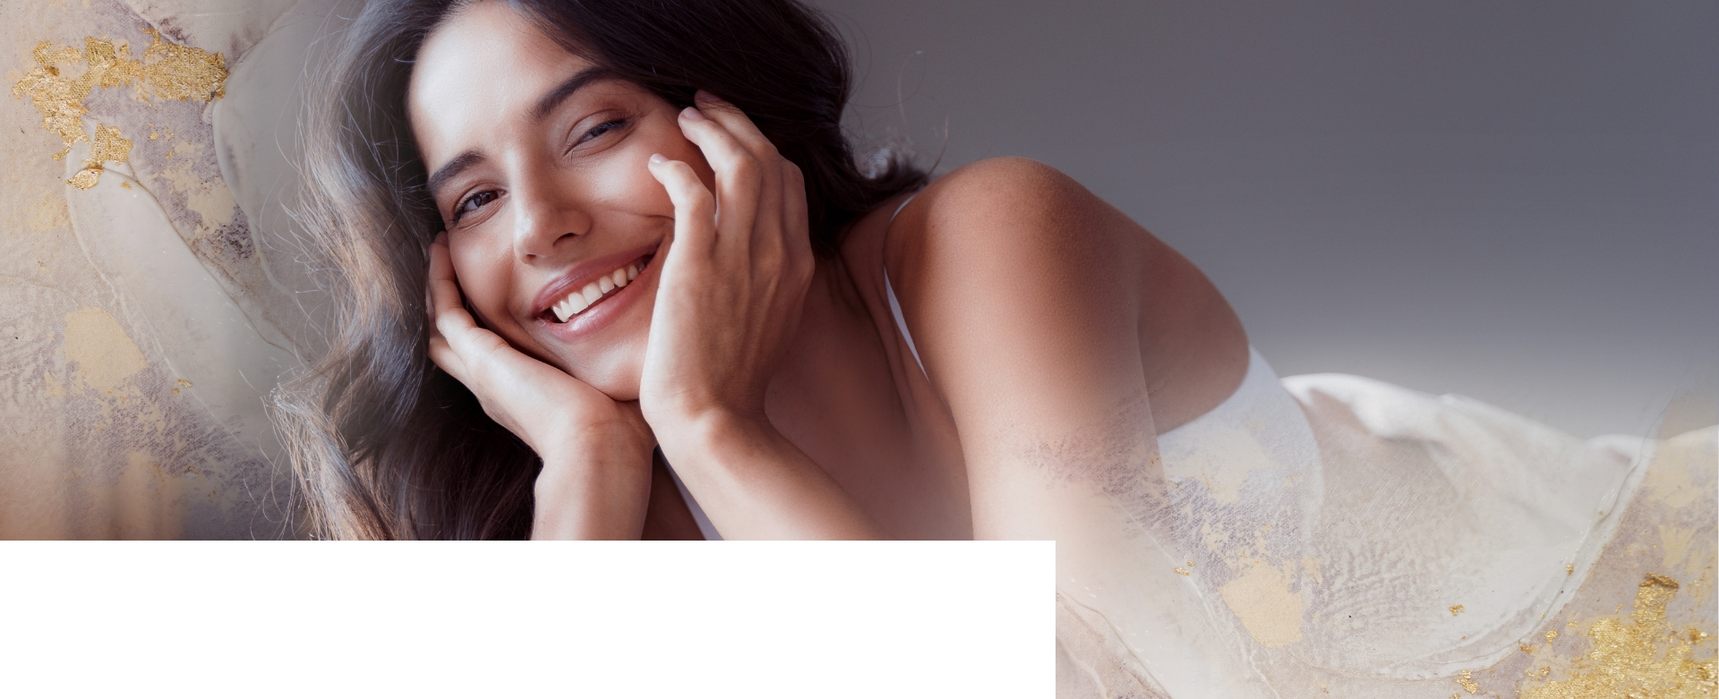
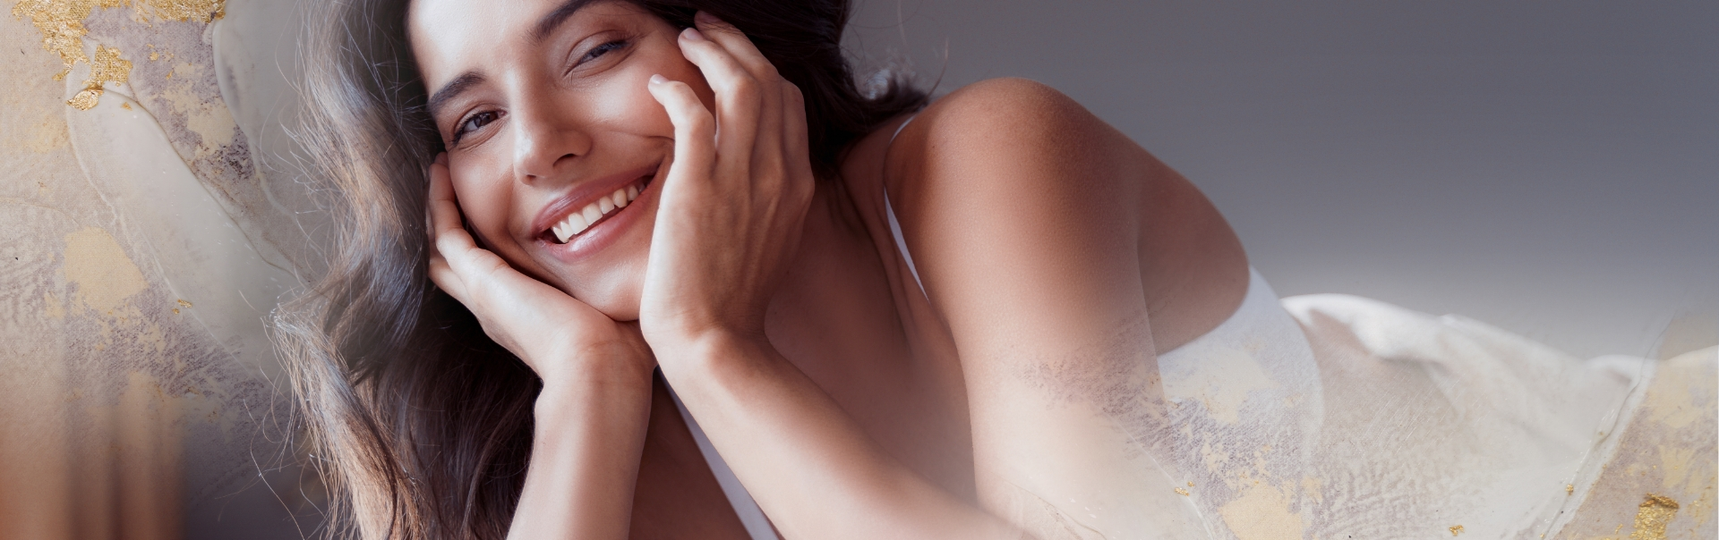
Common ::: gallery section ::  - added full responsive;

diff --git a/dest/css/app.min.css b/dest/css/app.min.css
@@ -1,1 +1,1 @@
-.c-grid,.c-grid-fluid{width:100%;margin-right:auto;margin-left:auto}.doctor__bg img,.gallery__bg-cover{position:absolute;top:0;left:0;width:100%;height:100%;-o-object-fit:cover;object-fit:cover;-o-object-position:center;object-position:center}.c-title{font-family:playfair-display,serif}@font-face{font-family:iconFont;src:url(../fonts/iconFont.eot);src:url(../fonts/iconFont.eot?#iefix) format("eot"),url(../fonts/iconFont.woff2) format("woff2"),url(../fonts/iconFont.woff) format("woff"),url(../fonts/iconFont.ttf) format("truetype"),url(../fonts/iconFont.svg#iconFont) format("svg")}.icon-arrow-left:before,.icon-arrow-right:before,.icon-star-fill:before{font-family:iconFont,sans-serif;-webkit-font-smoothing:antialiased;-moz-osx-font-smoothing:grayscale;font-style:normal;font-variant:normal;font-weight:400;text-decoration:none;text-transform:none}.icon-arrow-left:before{content:"\e001"}.icon-arrow-right:before{content:"\e002"}.icon-star-fill:before{content:"\e003"}body,html{width:100%;min-height:100vh}body.is-hideScroll,html.is-hideScroll{overflow:hidden!important;width:100%}html{-ms-overflow-style:scrollbar;-webkit-tap-highlight-color:rgba(0,0,0,0)}body{overflow-x:hidden;position:relative;flex-direction:column;margin:0;padding:0;background-color:#fff;line-height:1.42857143;font-size:14px;font-weight:400;letter-spacing:.02em;font-family:proxima-nova,muli,sans-serif;-webkit-font-smoothing:antialiased;-moz-osx-font-smoothing:grayscale}body,body>.main{display:-ms-flexbox;display:flex;-ms-flex-direction:column}body>.main{flex-direction:column;-ms-flex-pack:center;justify-content:center;-ms-flex:1 0 auto;flex:1 0 auto}body>.main--start{-ms-flex-pack:start;justify-content:flex-start}*,:after,:before{box-sizing:border-box}button,input,optgroup,select,textarea{font-size:100%;margin:0}button,input{overflow:visible}button[disabled]{opacity:.55;cursor:not-allowed}[type=search]{-webkit-appearance:textfield;outline-offset:-2px}[type=search]::-webkit-search-cancel-button,[type=search]::-webkit-search-decoration{-webkit-appearance:none}textarea{overflow:auto}h1,h2,h3,h4,h5,h6,hr,p,ul{margin:0;padding:0}ul li{list-style:none}a{outline:none}a,a:focus,a:hover{text-decoration:none}input[type=text]{-webkit-appearance:none;appearance:none}picture{display:-ms-flexbox;display:flex;top:0;left:0;width:100%;height:100%}.c-grid{max-width:1640px}.c-grid,.c-grid-fluid{padding-right:20px;padding-left:20px}.c-grid-fluid{max-width:100%}.copyright{display:-ms-flexbox;display:flex;-ms-flex-pack:center;justify-content:center;padding-bottom:15px}.copyright__text{font-weight:300;font-size:14px;text-align:center;color:#000}.copyright__text strong{font-weight:700}.made{display:-ms-flexbox;display:flex;-ms-flex-pack:center;justify-content:center;padding-bottom:15px}.made__text{font-weight:300;font-size:14px;text-align:center;color:#000}.made__text a{font-weight:700;color:#000;position:relative}.made__text a:hover:after,.made__text a:hover:before{width:50%;transition:width .3s ease-in-out}.made__text a:after,.made__text a:before{content:"";position:absolute;top:100%;width:0;height:1px;background-color:#000;transition:width .3s ease-in-out}.made__text a:before{left:50%}.made__text a:after{right:50%}.icon-font{line-height:1}.icon-font,.logo{display:-ms-flexbox;display:flex}.logo{-ms-flex-align:center;align-items:center}.logo__btn{display:-ms-flexbox;display:flex;-ms-flex-align:start;align-items:flex-start}.logo__btn img{display:block;max-width:100%;height:auto;max-height:100%;margin-left:auto;margin-right:auto}.c-title{font-weight:400;font-size:60px;line-height:1;text-align:center;color:#000}@media screen and (max-width:1535px){.c-title{font-size:50px}}@media screen and (max-width:767px){.c-title{font-size:35px}}.c-title.c-title--big{font-size:140px}@media screen and (max-width:1535px){.c-title.c-title--big{font-size:120px}}@media screen and (max-width:1365px){.c-title.c-title--big{font-size:100px}}@media screen and (max-width:1279px){.c-title.c-title--big{font-size:50px}}@media screen and (max-width:767px){.c-title.c-title--big{font-size:35px}}.c-title.c-title--small{font-size:40px}@media screen and (max-width:767px){.c-title.c-title--small{font-size:35px}}.c-title.c-title--white{color:#fff}.c-label{padding-bottom:10px;font-weight:900;font-size:14px;letter-spacing:.1em;text-align:center;color:#d015a5;text-transform:uppercase}@media screen and (max-width:1023px){.c-label{font-size:12px}}.c-desc{font-weight:300;font-size:16px;line-height:38px;text-align:center;color:#000}@media screen and (max-width:1365px){.c-desc{font-size:14px}}.c-btn{outline:none;cursor:pointer;position:relative;display:-ms-flexbox;display:flex;-ms-flex-align:center;align-items:center;-ms-flex-pack:center;justify-content:center;width:100%;max-width:300px;height:60px;padding-left:20px;padding-right:20px;border:2px solid #d015a5;background-color:#d015a5;text-transform:uppercase;font-weight:700;font-size:18px;text-align:center;color:#fff;transition:background-color .3s ease-in-out,color .3s ease-in-out}@media screen and (max-width:767px){.c-btn{height:50px;padding-left:15px;padding-right:15px;font-size:16px}}.c-btn:hover{background-color:transparent;color:#d015a5;transition:background-color .3s ease-in-out,color .3s ease-in-out}.c-btn:hover:after{opacity:.5;-ms-transform:translate(0);transform:translate(0)}.c-btn:after,.c-btn:hover:after{transition:opacity .3s ease-in-out,transform .3s ease-in-out}.c-btn:after{content:"";z-index:-1;position:absolute;top:0;left:0;-ms-transform:translate(-10px,10px);transform:translate(-10px,10px);width:100%;height:100%;background-color:#fff}.c-btn__wrapper{display:-ms-flexbox;display:flex;-ms-flex-align:center;align-items:center;width:100%}@media screen and (max-width:767px){.c-btn__wrapper{-ms-flex-pack:center;justify-content:center}}.c-btn__wrapper--center{-ms-flex-pack:center;justify-content:center}.footer__container{position:relative}.footer__container-1{background-image:url(../img/img-footer-bg.jpg);background-position:50%;background-repeat:no-repeat;background-size:cover}.footer__container-1:after{content:"";position:absolute;top:0;left:0;width:100%;height:100%;background-color:hsla(42,36%,91%,.15)}.footer__wrapper{z-index:2;position:relative}.footer__wrapper-1{display:-ms-flexbox;display:flex;-ms-flex-align:center;align-items:center;padding-top:95px;padding-bottom:155px}@media screen and (max-width:1439px){.footer__wrapper-1{padding-top:55px;padding-bottom:95px}}@media screen and (max-width:767px){.footer__wrapper-1{-ms-flex-wrap:wrap;flex-wrap:wrap;padding-bottom:55px}}.footer__wrapper-2{padding-top:55px;padding-bottom:95px}@media screen and (max-width:767px){.footer__wrapper-2{padding-bottom:55px}}.footer__wrapper-left,.footer__wrapper-right{width:100%;max-width:260px}@media screen and (max-width:767px){.footer__wrapper-left,.footer__wrapper-right{max-width:100%;padding-bottom:55px}}.footer__wrapper-middle{display:-ms-flexbox;display:flex;-ms-flex-align:center;align-items:center;-ms-flex-pack:center;justify-content:center;-ms-flex:1;flex:1;min-width:1px;max-width:100%;padding-left:20px;padding-right:20px}@media screen and (max-width:1023px){.footer__wrapper-middle{padding-right:0}}@media screen and (max-width:767px){.footer__wrapper-middle{-ms-flex:100%;flex:100%;padding-left:0}}@media screen and (max-width:1023px){.footer__wrapper-right{display:none}}.footer__nav{display:-ms-flexbox;display:flex;-ms-flex-align:center;align-items:center;-ms-flex-pack:center;justify-content:center}.footer__nav a,.footer__nav span{font-weight:300;font-size:14px;text-align:center;color:#000}.footer__nav a{display:-ms-flexbox;display:flex;-ms-flex-align:center;align-items:center;position:relative}.footer__nav a:hover:after,.footer__nav a:hover:before{width:50%;transition:width .3s ease-in-out}.footer__nav a:after,.footer__nav a:before{content:"";position:absolute;top:100%;width:0;height:1px;background-color:#000;transition:width .3s ease-in-out}.footer__nav a:before{left:50%}.footer__nav a:after{right:50%}.footer__nav span{margin-left:5px;margin-right:5px}.footer__address{display:-ms-flexbox;display:flex;-ms-flex-align:start;align-items:flex-start;-ms-flex-direction:column;flex-direction:column}@media screen and (max-width:767px){.footer__address{-ms-flex-align:center;align-items:center;text-align:center}}.footer__address-country{padding-bottom:50px;font-weight:700;font-size:16px;letter-spacing:.02em;color:#000}@media screen and (max-width:767px){.footer__address-country{padding-bottom:25px}}.footer__address-desc{padding-bottom:25px;font-weight:300}.footer__address-desc,.footer__address-tel{font-size:16px;letter-spacing:.02em;color:#000}.footer__address-tel{font-weight:700;position:relative}.footer__address-tel:hover:after,.footer__address-tel:hover:before{width:50%;transition:width .3s ease-in-out}.footer__address-tel:after,.footer__address-tel:before{content:"";position:absolute;top:100%;width:0;height:1px;background-color:#000;transition:width .3s ease-in-out}.footer__address-tel:before{left:50%}.footer__address-tel:after{right:50%}.doctor{position:relative;padding-top:150px;padding-bottom:150px}@media screen and (max-width:1535px){.doctor{padding-top:125px;padding-bottom:125px}}@media screen and (max-width:1279px){.doctor{padding-top:100px;padding-bottom:100px}}@media screen and (max-width:767px){.doctor{padding-top:50px;padding-bottom:50px}}.doctor__bg{z-index:0;position:absolute;top:0;left:0;width:100%;height:100%}.doctor__bg img{left:100px;-o-object-fit:none;object-fit:none;-o-object-position:left center;object-position:left center}.doctor__wrapper{z-index:2;position:relative;width:100%;max-width:650px;margin-left:auto;margin-right:auto}.doctor__title{padding-bottom:50px}.doctor__title strong{font-weight:700}.doctor__desc{padding-bottom:25px}.doctor__desc:last-of-type{padding-bottom:50px}@media screen and (max-width:767px){.doctor__desc:last-of-type{padding-bottom:25px}}.doctor__link{position:relative;display:-ms-flexbox;display:flex;-ms-flex-align:center;align-items:center;-ms-flex-pack:center;justify-content:center;font-weight:700;font-size:18px;letter-spacing:.02em;line-height:38px;text-align:center;color:#000;text-transform:uppercase}@media screen and (max-width:1365px){.doctor__link{font-size:16px}}@media screen and (max-width:767px){.doctor__link{font-size:14px}}.doctor__link:hover:after{width:100px;transition:width .3s ease-in-out}.doctor__link:after{content:"";position:absolute;top:calc(100% + 20px);left:0;right:0;width:40px;height:3px;background-color:#d010a5;margin-left:auto;margin-right:auto;transition:width .3s ease-in-out}@media screen and (max-width:1279px){.doctor__link:after{top:calc(100% + 10px)}}.meet{position:relative;background-repeat:no-repeat;background-position:50%;background-size:cover}@media screen and (max-width:1279px){.meet{background-position:-300px}}.meet:after{content:"";position:absolute;top:0;left:0;display:none;width:100%;height:100%;background:hsla(0,0%,100%,0);background:linear-gradient(90deg,hsla(0,0%,100%,0),#fff)}@media screen and (max-width:1279px){.meet:after{display:block}}@media screen and (max-width:767px){.meet:after{background-color:hsla(0,0%,100%,.85)}}.meet__wrapper{z-index:2;position:relative;display:-ms-flexbox;display:flex;padding-top:125px;padding-bottom:150px}@media screen and (max-width:1439px){.meet__wrapper{padding-top:100px;padding-bottom:125px}}@media screen and (max-width:767px){.meet__wrapper{padding-bottom:100px}}.meet__wrapper>div{width:100%;max-width:50%;margin-left:auto}@media screen and (max-width:767px){.meet__wrapper>div{max-width:100%}}.meet__desc,.meet__label,.meet__title{text-align:left}@media screen and (max-width:767px){.meet__desc,.meet__label,.meet__title{text-align:center}}.meet__desc,.meet__title{padding-bottom:50px}.meet__desc{max-width:565px}.gallery{position:relative}.gallery__bg{z-index:0;position:absolute;top:0;left:0;width:100%;height:100%}.gallery__bg:after{content:"";position:absolute;left:0;bottom:0;width:64%;height:230px;background-color:#fff}.gallery__bg>div{position:absolute;left:0;bottom:0;width:100%;max-width:64%;height:100%}.gallery__bg>div>div{z-index:2;position:absolute;display:-ms-flexbox;display:flex;left:100px;right:0;bottom:0;width:680px;height:500px}.gallery__bg>div>div img{position:absolute;display:block;width:100%;max-width:calc((100% - 30px) / 2);height:auto;max-height:100%;border:10px solid #fff}.gallery__bg>div>div img:first-of-type{top:0;left:0}.gallery__bg>div>div img:nth-of-type(2){right:0;bottom:0}.gallery__wrapper{z-index:2;position:relative;padding-top:150px;padding-bottom:150px}.gallery__title{display:-ms-flexbox;display:flex;-ms-flex-pack:end;justify-content:flex-end;padding-bottom:330px;text-align:right;text-transform:uppercase}.gallery__title p{position:relative;padding:20px 50px 50px}.gallery__title p:after,.gallery__title p:before{content:"";position:absolute;width:40%;height:3px;background-color:#d010a5}.gallery__title p:before{top:0;right:0}.gallery__title p:after{left:0;bottom:0}.gallery__btn{-ms-flex-pack:end;justify-content:flex-end}.gallery__btn .c-btn{max-width:450px}.service{position:relative}.service .c-grid-fluid{padding-left:0;padding-right:0}.service__bg{z-index:0;position:absolute;top:0;left:0;width:100%;height:calc(90% - 250px);background-image:url(../img/img-pattern.jpg);background-repeat:no-repeat;background-position:50%;background-size:cover}.service__wrapper{z-index:2;position:relative;padding-top:70px}.service__carousel .swiper{padding-top:100px;padding-bottom:100px}.service__carousel .swiper-slide{width:800px!important}.service__box{position:relative;display:-ms-flexbox;display:flex;-ms-flex-align:center;align-items:center;-ms-flex-direction:column;flex-direction:column;width:100%;min-height:100%;padding:150px 115px 90px;box-shadow:5px 3px 25px 0 rgba(0,0,0,.16);background-color:#fff}.service__box-watermark{position:absolute;top:0;left:0;right:0;-ms-transform:translateY(-50%);transform:translateY(-50%);display:block;max-width:140px;height:auto;margin-left:auto;margin-right:auto}.service__box-desc,.service__box-title{padding-bottom:50px}.reviews{position:relative;padding-top:125px;padding-bottom:250px}.reviews__bg{z-index:0;position:absolute;top:125px;left:0;width:85%;height:calc(80% - 125px);background-repeat:no-repeat;background-position:50%;background-size:cover}.reviews__wrapper{z-index:2;position:relative;display:-ms-flexbox;display:flex;-ms-flex-pack:end;justify-content:flex-end;padding-top:110px}.reviews__wrapper>div{width:100%;max-width:55%}.reviews__title{padding-bottom:110px;padding-left:50px;text-transform:uppercase;text-align:left}.reviews__box{position:relative;-ms-flex-direction:column;flex-direction:column;width:100%;max-width:950px;padding:80px 140px 0;box-shadow:5px 3px 25px 0 rgba(0,0,0,.16);background-color:#fff}.reviews__box,.reviews__btn{display:-ms-flexbox;display:flex;-ms-flex-align:center;align-items:center}.reviews__btn{z-index:10;position:absolute;top:50%;-ms-flex-pack:center;justify-content:center;width:83px;height:83px;background-color:#d015a5}.reviews__btn--prev{left:0;-ms-transform:translate(-50%,-50%);transform:translate(-50%,-50%)}.reviews__btn--next{right:0;-ms-transform:translate(50%,-50%);transform:translate(50%,-50%)}.reviews__btn .icon-font{font-size:30px;color:#fff}.reviews__carousel{width:100%}.reviews__rating{display:-ms-flexbox;display:flex;-ms-flex-align:center;align-items:center;-ms-flex-pack:center;justify-content:center;padding-bottom:45px}.reviews__rating .icon-font{margin-left:5px;margin-right:5px;color:#f0b619;font-size:25px}.reviews__desc{padding-bottom:35px;line-height:1.8;color:#999}.reviews__name{font-weight:700;font-size:22px;letter-spacing:.02em;line-height:32px;text-align:center;color:#b2b2b2}.reviews__more{position:relative;-ms-transform:translateY(35%);transform:translateY(35%);display:-ms-flexbox;display:flex;-ms-flex-direction:column;flex-direction:column;-ms-flex-align:center;align-items:center;-ms-flex-pack:center;justify-content:center;width:100%;max-width:554px;min-height:200px;margin-left:auto;margin-right:auto;background-color:#000;background-image:url(../img/img-pattern.jpg);background-repeat:no-repeat;background-position:50%;background-size:cover}.reviews__more p{padding-bottom:20px}.reviews__more span{position:relative;text-transform:uppercase;font-weight:700;font-size:18px;text-align:left;color:#fff}.reviews__more span:after{content:"";position:absolute;top:calc(100% + 20px);left:0;right:0;width:40px;height:2px;margin-left:auto;margin-right:auto;background-color:#d010a5}.schedule{background-image:url(../img/img-schedule-bg.jpg);background-repeat:no-repeat;background-position:50%;background-size:cover}.schedule__wrapper{padding-top:220px;padding-bottom:340px}.schedule__title{position:relative;text-transform:uppercase;text-align:left}.schedule__title:before{content:"";z-index:0;position:absolute;top:0;left:0;-ms-transform:translate(-50%,-25%);transform:translate(-50%,-25%);width:307px;height:270px;background-color:#ccc6b8}.schedule__title span{z-index:2;position:relative}.patient-resources{padding-top:150px;padding-bottom:150px}.patient-resources__title{padding-bottom:50px}.patient-resources__desc{width:100%;max-width:670px;margin-left:auto;margin-right:auto;padding-bottom:70px}.patient-resources__link{-ms-flex-pack:distribute;justify-content:space-around}.patient-resources__link,.patient-resources__link a{display:-ms-flexbox;display:flex;-ms-flex-align:center;align-items:center}.patient-resources__link a{-ms-flex-pack:center;justify-content:center;font-weight:700;font-size:22px;letter-spacing:.1em;text-align:center;color:#8dc4c4;text-transform:uppercase;position:relative}.patient-resources__link a:hover:after,.patient-resources__link a:hover:before{width:50%;transition:width .3s ease-in-out}.patient-resources__link a:after,.patient-resources__link a:before{content:"";position:absolute;top:100%;width:0;height:1px;background-color:#8dc4c4;transition:width .3s ease-in-out}.patient-resources__link a:before{left:50%}.patient-resources__link a:after{right:50%}
+.c-grid,.c-grid-fluid{width:100%;margin-right:auto;margin-left:auto}.doctor__bg img,.gallery__bg-cover{position:absolute;top:0;left:0;width:100%;height:100%;-o-object-fit:cover;object-fit:cover;-o-object-position:center;object-position:center}.c-title{font-family:playfair-display,serif}@font-face{font-family:iconFont;src:url(../fonts/iconFont.eot);src:url(../fonts/iconFont.eot?#iefix) format("eot"),url(../fonts/iconFont.woff2) format("woff2"),url(../fonts/iconFont.woff) format("woff"),url(../fonts/iconFont.ttf) format("truetype"),url(../fonts/iconFont.svg#iconFont) format("svg")}.icon-arrow-left:before,.icon-arrow-right:before,.icon-star-fill:before{font-family:iconFont,sans-serif;-webkit-font-smoothing:antialiased;-moz-osx-font-smoothing:grayscale;font-style:normal;font-variant:normal;font-weight:400;text-decoration:none;text-transform:none}.icon-arrow-left:before{content:"\e001"}.icon-arrow-right:before{content:"\e002"}.icon-star-fill:before{content:"\e003"}body,html{width:100%;min-height:100vh}body.is-hideScroll,html.is-hideScroll{overflow:hidden!important;width:100%}html{-ms-overflow-style:scrollbar;-webkit-tap-highlight-color:rgba(0,0,0,0)}body{overflow-x:hidden;position:relative;flex-direction:column;margin:0;padding:0;background-color:#fff;line-height:1.42857143;font-size:14px;font-weight:400;letter-spacing:.02em;font-family:proxima-nova,muli,sans-serif;-webkit-font-smoothing:antialiased;-moz-osx-font-smoothing:grayscale}body,body>.main{display:-ms-flexbox;display:flex;-ms-flex-direction:column}body>.main{flex-direction:column;-ms-flex-pack:center;justify-content:center;-ms-flex:1 0 auto;flex:1 0 auto}body>.main--start{-ms-flex-pack:start;justify-content:flex-start}*,:after,:before{box-sizing:border-box}button,input,optgroup,select,textarea{font-size:100%;margin:0}button,input{overflow:visible}button[disabled]{opacity:.55;cursor:not-allowed}[type=search]{-webkit-appearance:textfield;outline-offset:-2px}[type=search]::-webkit-search-cancel-button,[type=search]::-webkit-search-decoration{-webkit-appearance:none}textarea{overflow:auto}h1,h2,h3,h4,h5,h6,hr,p,ul{margin:0;padding:0}ul li{list-style:none}a{outline:none}a,a:focus,a:hover{text-decoration:none}input[type=text]{-webkit-appearance:none;appearance:none}picture{display:-ms-flexbox;display:flex;top:0;left:0;width:100%;height:100%}.c-grid{max-width:1640px}.c-grid,.c-grid-fluid{padding-right:20px;padding-left:20px}.c-grid-fluid{max-width:100%}.copyright{display:-ms-flexbox;display:flex;-ms-flex-pack:center;justify-content:center;padding-bottom:15px}.copyright__text{font-weight:300;font-size:14px;text-align:center;color:#000}.copyright__text strong{font-weight:700}.made{display:-ms-flexbox;display:flex;-ms-flex-pack:center;justify-content:center;padding-bottom:15px}.made__text{font-weight:300;font-size:14px;text-align:center;color:#000}.made__text a{font-weight:700;color:#000;position:relative}.made__text a:hover:after,.made__text a:hover:before{width:50%;transition:width .3s ease-in-out}.made__text a:after,.made__text a:before{content:"";position:absolute;top:100%;width:0;height:1px;background-color:#000;transition:width .3s ease-in-out}.made__text a:before{left:50%}.made__text a:after{right:50%}.icon-font{line-height:1}.icon-font,.logo{display:-ms-flexbox;display:flex}.logo{-ms-flex-align:center;align-items:center}.logo__btn{display:-ms-flexbox;display:flex;-ms-flex-align:start;align-items:flex-start}.logo__btn img{display:block;max-width:100%;height:auto;max-height:100%;margin-left:auto;margin-right:auto}.c-title{font-weight:400;font-size:60px;line-height:1;text-align:center;color:#000}@media screen and (max-width:1535px){.c-title{font-size:50px}}@media screen and (max-width:767px){.c-title{font-size:35px}}.c-title.c-title--big{font-size:140px}@media screen and (max-width:1535px){.c-title.c-title--big{font-size:120px}}@media screen and (max-width:1365px){.c-title.c-title--big{font-size:100px}}@media screen and (max-width:1279px){.c-title.c-title--big{font-size:80px}}@media screen and (max-width:1023px){.c-title.c-title--big{font-size:60px}}@media screen and (max-width:767px){.c-title.c-title--big{font-size:35px}}.c-title.c-title--small{font-size:40px}@media screen and (max-width:767px){.c-title.c-title--small{font-size:35px}}.c-title.c-title--white{color:#fff}.c-label{padding-bottom:10px;font-weight:900;font-size:14px;letter-spacing:.1em;text-align:center;color:#d015a5;text-transform:uppercase}@media screen and (max-width:1023px){.c-label{font-size:12px}}.c-desc{font-weight:300;font-size:16px;line-height:38px;text-align:center;color:#000}@media screen and (max-width:1365px){.c-desc{font-size:14px}}.c-btn{outline:none;cursor:pointer;position:relative;display:-ms-flexbox;display:flex;-ms-flex-align:center;align-items:center;-ms-flex-pack:center;justify-content:center;width:100%;max-width:300px;height:60px;padding-left:20px;padding-right:20px;border:2px solid #d015a5;background-color:#d015a5;text-transform:uppercase;font-weight:700;font-size:18px;text-align:center;color:#fff;transition:background-color .3s ease-in-out,color .3s ease-in-out}@media screen and (max-width:767px){.c-btn{height:50px;padding-left:15px;padding-right:15px;font-size:16px}}.c-btn:hover{background-color:transparent;color:#d015a5;transition:background-color .3s ease-in-out,color .3s ease-in-out}.c-btn:hover:after{opacity:.5;-ms-transform:translate(0);transform:translate(0)}.c-btn:after,.c-btn:hover:after{transition:opacity .3s ease-in-out,transform .3s ease-in-out}.c-btn:after{content:"";z-index:-1;position:absolute;top:0;left:0;-ms-transform:translate(-10px,10px);transform:translate(-10px,10px);width:100%;height:100%;background-color:#fff}.c-btn__wrapper{display:-ms-flexbox;display:flex;-ms-flex-align:center;align-items:center;width:100%}@media screen and (max-width:767px){.c-btn__wrapper{-ms-flex-pack:center;justify-content:center}}.c-btn__wrapper--center{-ms-flex-pack:center;justify-content:center}.footer__container{position:relative}.footer__container-1{background-image:url(../img/img-footer-bg.jpg);background-position:50%;background-repeat:no-repeat;background-size:cover}.footer__container-1:after{content:"";position:absolute;top:0;left:0;width:100%;height:100%;background-color:hsla(42,36%,91%,.15)}.footer__wrapper{z-index:2;position:relative}.footer__wrapper-1{display:-ms-flexbox;display:flex;-ms-flex-align:center;align-items:center;padding-top:95px;padding-bottom:155px}@media screen and (max-width:1439px){.footer__wrapper-1{padding-top:55px;padding-bottom:95px}}@media screen and (max-width:767px){.footer__wrapper-1{-ms-flex-wrap:wrap;flex-wrap:wrap;padding-bottom:55px}}.footer__wrapper-2{padding-top:55px;padding-bottom:95px}@media screen and (max-width:767px){.footer__wrapper-2{padding-bottom:55px}}.footer__wrapper-left,.footer__wrapper-right{width:100%;max-width:260px}@media screen and (max-width:767px){.footer__wrapper-left,.footer__wrapper-right{max-width:100%;padding-bottom:55px}}.footer__wrapper-middle{display:-ms-flexbox;display:flex;-ms-flex-align:center;align-items:center;-ms-flex-pack:center;justify-content:center;-ms-flex:1;flex:1;min-width:1px;max-width:100%;padding-left:20px;padding-right:20px}@media screen and (max-width:1023px){.footer__wrapper-middle{padding-right:0}}@media screen and (max-width:767px){.footer__wrapper-middle{-ms-flex:100%;flex:100%;padding-left:0}}@media screen and (max-width:1023px){.footer__wrapper-right{display:none}}.footer__nav{display:-ms-flexbox;display:flex;-ms-flex-align:center;align-items:center;-ms-flex-pack:center;justify-content:center}.footer__nav a,.footer__nav span{font-weight:300;font-size:14px;text-align:center;color:#000}.footer__nav a{display:-ms-flexbox;display:flex;-ms-flex-align:center;align-items:center;position:relative}.footer__nav a:hover:after,.footer__nav a:hover:before{width:50%;transition:width .3s ease-in-out}.footer__nav a:after,.footer__nav a:before{content:"";position:absolute;top:100%;width:0;height:1px;background-color:#000;transition:width .3s ease-in-out}.footer__nav a:before{left:50%}.footer__nav a:after{right:50%}.footer__nav span{margin-left:5px;margin-right:5px}.footer__address{display:-ms-flexbox;display:flex;-ms-flex-align:start;align-items:flex-start;-ms-flex-direction:column;flex-direction:column}@media screen and (max-width:767px){.footer__address{-ms-flex-align:center;align-items:center;text-align:center}}.footer__address-country{padding-bottom:50px;font-weight:700;font-size:16px;letter-spacing:.02em;color:#000}@media screen and (max-width:767px){.footer__address-country{padding-bottom:25px}}.footer__address-desc{padding-bottom:25px;font-weight:300}.footer__address-desc,.footer__address-tel{font-size:16px;letter-spacing:.02em;color:#000}.footer__address-tel{font-weight:700;position:relative}.footer__address-tel:hover:after,.footer__address-tel:hover:before{width:50%;transition:width .3s ease-in-out}.footer__address-tel:after,.footer__address-tel:before{content:"";position:absolute;top:100%;width:0;height:1px;background-color:#000;transition:width .3s ease-in-out}.footer__address-tel:before{left:50%}.footer__address-tel:after{right:50%}.doctor{position:relative;padding-top:150px;padding-bottom:150px}@media screen and (max-width:1535px){.doctor{padding-top:125px;padding-bottom:125px}}@media screen and (max-width:1279px){.doctor{padding-top:100px;padding-bottom:100px}}@media screen and (max-width:767px){.doctor{padding-top:50px;padding-bottom:50px}}.doctor__bg{z-index:0;position:absolute;top:0;left:0;width:100%;height:100%}.doctor__bg img{left:100px;-o-object-fit:none;object-fit:none;-o-object-position:left center;object-position:left center}.doctor__wrapper{z-index:2;position:relative;width:100%;max-width:650px;margin-left:auto;margin-right:auto}.doctor__title{padding-bottom:50px}.doctor__title strong{font-weight:700}.doctor__desc{padding-bottom:25px}.doctor__desc:last-of-type{padding-bottom:50px}@media screen and (max-width:767px){.doctor__desc:last-of-type{padding-bottom:25px}}.doctor__link{position:relative;display:-ms-flexbox;display:flex;-ms-flex-align:center;align-items:center;-ms-flex-pack:center;justify-content:center;font-weight:700;font-size:18px;letter-spacing:.02em;line-height:38px;text-align:center;color:#000;text-transform:uppercase}@media screen and (max-width:1365px){.doctor__link{font-size:16px}}@media screen and (max-width:767px){.doctor__link{font-size:14px}}.doctor__link:hover:after{width:100px;transition:width .3s ease-in-out}.doctor__link:after{content:"";position:absolute;top:calc(100% + 20px);left:0;right:0;width:40px;height:3px;background-color:#d010a5;margin-left:auto;margin-right:auto;transition:width .3s ease-in-out}@media screen and (max-width:1279px){.doctor__link:after{top:calc(100% + 10px)}}.meet{position:relative;background-repeat:no-repeat;background-position:50%;background-size:cover}@media screen and (max-width:1279px){.meet{background-position:-300px}}.meet:after{content:"";position:absolute;top:0;left:0;display:none;width:100%;height:100%;background:hsla(0,0%,100%,0);background:linear-gradient(90deg,hsla(0,0%,100%,0),#fff)}@media screen and (max-width:1279px){.meet:after{display:block}}@media screen and (max-width:767px){.meet:after{background-color:hsla(0,0%,100%,.85)}}.meet__wrapper{z-index:2;position:relative;display:-ms-flexbox;display:flex;padding-top:125px;padding-bottom:150px}@media screen and (max-width:1439px){.meet__wrapper{padding-top:100px;padding-bottom:125px}}@media screen and (max-width:767px){.meet__wrapper{padding-bottom:100px}}.meet__wrapper>div{width:100%;max-width:50%;margin-left:auto}@media screen and (max-width:767px){.meet__wrapper>div{max-width:100%}}.meet__desc,.meet__label,.meet__title{text-align:left}@media screen and (max-width:767px){.meet__desc,.meet__label,.meet__title{text-align:center}}.meet__desc,.meet__title{padding-bottom:50px}.meet__desc{max-width:565px}.gallery{position:relative}.gallery__bg{z-index:0;position:absolute;top:0;left:0;width:100%;height:100%}@media screen and (max-width:767px){.gallery__bg-cover{opacity:.75;-o-object-position:-200px center;object-position:-200px center}}.gallery__bg:after{content:"";position:absolute;left:0;bottom:0;width:64%;height:230px;background-color:#fff}@media screen and (max-width:1279px){.gallery__bg:after{width:50%}}@media screen and (max-width:1023px){.gallery__bg:after{display:none}}.gallery__bg>div{position:absolute;left:0;bottom:0;width:100%;max-width:64%;height:100%}@media screen and (max-width:1279px){.gallery__bg>div{max-width:40%}}@media screen and (max-width:1023px){.gallery__bg>div{display:none}}.gallery__bg>div>div{z-index:2;position:absolute;display:-ms-flexbox;display:flex;left:100px;right:0;bottom:0;width:680px;height:500px}@media screen and (max-width:1439px){.gallery__bg>div>div{width:580px;height:400px}}@media screen and (max-width:1279px){.gallery__bg>div>div{left:20px;width:100%}}.gallery__bg>div>div img{position:absolute;display:block;width:100%;max-width:calc((100% - 30px) / 2);height:auto;max-height:100%;border:10px solid #fff}.gallery__bg>div>div img:first-of-type{top:0;left:0}.gallery__bg>div>div img:nth-of-type(2){right:0;bottom:0}.gallery__wrapper{z-index:2;position:relative;padding-top:150px;padding-bottom:150px}@media screen and (max-width:1439px){.gallery__wrapper{padding-top:125px;padding-bottom:125px}}@media screen and (max-width:767px){.gallery__wrapper{padding-top:100px;padding-bottom:100px}}.gallery__title{display:-ms-flexbox;display:flex;-ms-flex-pack:end;justify-content:flex-end;padding-bottom:330px;text-align:right;text-transform:uppercase}@media screen and (max-width:1279px){.gallery__title{padding-bottom:230px}}@media screen and (max-width:767px){.gallery__title{-ms-flex-pack:center;justify-content:center;padding-bottom:100px}}.gallery__title p{position:relative;padding:20px 50px 50px}@media screen and (max-width:767px){.gallery__title p{padding-bottom:20px}}.gallery__title p:after,.gallery__title p:before{content:"";position:absolute;width:40%;height:3px;background-color:#d010a5}.gallery__title p:before{top:0;right:0}.gallery__title p:after{left:0;bottom:0}.gallery__btn{-ms-flex-pack:end;justify-content:flex-end}.gallery__btn .c-btn{max-width:450px}.service{position:relative}.service .c-grid-fluid{padding-left:0;padding-right:0}.service__bg{z-index:0;position:absolute;top:0;left:0;width:100%;height:calc(90% - 250px);background-image:url(../img/img-pattern.jpg);background-repeat:no-repeat;background-position:50%;background-size:cover}.service__wrapper{z-index:2;position:relative;padding-top:70px}.service__carousel .swiper{padding-top:100px;padding-bottom:100px}.service__carousel .swiper-slide{width:800px!important}.service__box{position:relative;display:-ms-flexbox;display:flex;-ms-flex-align:center;align-items:center;-ms-flex-direction:column;flex-direction:column;width:100%;min-height:100%;padding:150px 115px 90px;box-shadow:5px 3px 25px 0 rgba(0,0,0,.16);background-color:#fff}.service__box-watermark{position:absolute;top:0;left:0;right:0;-ms-transform:translateY(-50%);transform:translateY(-50%);display:block;max-width:140px;height:auto;margin-left:auto;margin-right:auto}.service__box-desc,.service__box-title{padding-bottom:50px}.reviews{position:relative;padding-top:125px;padding-bottom:250px}.reviews__bg{z-index:0;position:absolute;top:125px;left:0;width:85%;height:calc(80% - 125px);background-repeat:no-repeat;background-position:50%;background-size:cover}.reviews__wrapper{z-index:2;position:relative;display:-ms-flexbox;display:flex;-ms-flex-pack:end;justify-content:flex-end;padding-top:110px}.reviews__wrapper>div{width:100%;max-width:55%}.reviews__title{padding-bottom:110px;padding-left:50px;text-transform:uppercase;text-align:left}.reviews__box{position:relative;-ms-flex-direction:column;flex-direction:column;width:100%;max-width:950px;padding:80px 140px 0;box-shadow:5px 3px 25px 0 rgba(0,0,0,.16);background-color:#fff}.reviews__box,.reviews__btn{display:-ms-flexbox;display:flex;-ms-flex-align:center;align-items:center}.reviews__btn{z-index:10;position:absolute;top:50%;-ms-flex-pack:center;justify-content:center;width:83px;height:83px;background-color:#d015a5}.reviews__btn--prev{left:0;-ms-transform:translate(-50%,-50%);transform:translate(-50%,-50%)}.reviews__btn--next{right:0;-ms-transform:translate(50%,-50%);transform:translate(50%,-50%)}.reviews__btn .icon-font{font-size:30px;color:#fff}.reviews__carousel{width:100%}.reviews__rating{display:-ms-flexbox;display:flex;-ms-flex-align:center;align-items:center;-ms-flex-pack:center;justify-content:center;padding-bottom:45px}.reviews__rating .icon-font{margin-left:5px;margin-right:5px;color:#f0b619;font-size:25px}.reviews__desc{padding-bottom:35px;line-height:1.8;color:#999}.reviews__name{font-weight:700;font-size:22px;letter-spacing:.02em;line-height:32px;text-align:center;color:#b2b2b2}.reviews__more{position:relative;-ms-transform:translateY(35%);transform:translateY(35%);display:-ms-flexbox;display:flex;-ms-flex-direction:column;flex-direction:column;-ms-flex-align:center;align-items:center;-ms-flex-pack:center;justify-content:center;width:100%;max-width:554px;min-height:200px;margin-left:auto;margin-right:auto;background-color:#000;background-image:url(../img/img-pattern.jpg);background-repeat:no-repeat;background-position:50%;background-size:cover}.reviews__more p{padding-bottom:20px}.reviews__more span{position:relative;text-transform:uppercase;font-weight:700;font-size:18px;text-align:left;color:#fff}.reviews__more span:after{content:"";position:absolute;top:calc(100% + 20px);left:0;right:0;width:40px;height:2px;margin-left:auto;margin-right:auto;background-color:#d010a5}.schedule{background-image:url(../img/img-schedule-bg.jpg);background-repeat:no-repeat;background-position:50%;background-size:cover}.schedule__wrapper{padding-top:220px;padding-bottom:340px}.schedule__title{position:relative;text-transform:uppercase;text-align:left}.schedule__title:before{content:"";z-index:0;position:absolute;top:0;left:0;-ms-transform:translate(-50%,-25%);transform:translate(-50%,-25%);width:307px;height:270px;background-color:#ccc6b8}.schedule__title span{z-index:2;position:relative}.patient-resources{padding-top:150px;padding-bottom:150px}.patient-resources__title{padding-bottom:50px}.patient-resources__desc{width:100%;max-width:670px;margin-left:auto;margin-right:auto;padding-bottom:70px}.patient-resources__link{-ms-flex-pack:distribute;justify-content:space-around}.patient-resources__link,.patient-resources__link a{display:-ms-flexbox;display:flex;-ms-flex-align:center;align-items:center}.patient-resources__link a{-ms-flex-pack:center;justify-content:center;font-weight:700;font-size:22px;letter-spacing:.1em;text-align:center;color:#8dc4c4;text-transform:uppercase;position:relative}.patient-resources__link a:hover:after,.patient-resources__link a:hover:before{width:50%;transition:width .3s ease-in-out}.patient-resources__link a:after,.patient-resources__link a:before{content:"";position:absolute;top:100%;width:0;height:1px;background-color:#8dc4c4;transition:width .3s ease-in-out}.patient-resources__link a:before{left:50%}.patient-resources__link a:after{right:50%}

diff --git a/dest/css/app.css b/dest/css/app.css
@@ -325,7 +325,12 @@ picture {
 }
 @media screen and (max-width: 1279px) {
   .c-title.c-title--big {
-    font-size: 50px;
+    font-size: 80px;
+  }
+}
+@media screen and (max-width: 1023px) {
+  .c-title.c-title--big {
+    font-size: 60px;
   }
 }
 @media screen and (max-width: 767px) {
@@ -902,6 +907,13 @@ picture {
   width: 100%;
   height: 100%;
 }
+@media screen and (max-width: 767px) {
+  .gallery__bg-cover {
+    opacity: 0.75;
+    -o-object-position: -200px center;
+       object-position: -200px center;
+  }
+}
 .gallery__bg:after {
   content: "";
   position: absolute;
@@ -911,6 +923,16 @@ picture {
   height: 230px;
   background-color: #ffffff;
 }
+@media screen and (max-width: 1279px) {
+  .gallery__bg:after {
+    width: 50%;
+  }
+}
+@media screen and (max-width: 1023px) {
+  .gallery__bg:after {
+    display: none;
+  }
+}
 .gallery__bg > div {
   position: absolute;
   left: 0;
@@ -918,6 +940,16 @@ picture {
   width: 100%;
   max-width: 64%;
   height: 100%;
+}
+@media screen and (max-width: 1279px) {
+  .gallery__bg > div {
+    max-width: 40%;
+  }
+}
+@media screen and (max-width: 1023px) {
+  .gallery__bg > div {
+    display: none;
+  }
 }
 .gallery__bg > div > div {
   z-index: 2;
@@ -930,6 +962,18 @@ picture {
   bottom: 0;
   width: 680px;
   height: 500px;
+}
+@media screen and (max-width: 1439px) {
+  .gallery__bg > div > div {
+    width: 580px;
+    height: 400px;
+  }
+}
+@media screen and (max-width: 1279px) {
+  .gallery__bg > div > div {
+    left: 20px;
+    width: 100%;
+  }
 }
 .gallery__bg > div > div img {
   position: absolute;
@@ -954,6 +998,18 @@ picture {
   padding-top: 150px;
   padding-bottom: 150px;
 }
+@media screen and (max-width: 1439px) {
+  .gallery__wrapper {
+    padding-top: 125px;
+    padding-bottom: 125px;
+  }
+}
+@media screen and (max-width: 767px) {
+  .gallery__wrapper {
+    padding-top: 100px;
+    padding-bottom: 100px;
+  }
+}
 .gallery__title {
   display: -webkit-box;
   display: -ms-flexbox;
@@ -965,9 +1021,27 @@ picture {
   text-align: right;
   text-transform: uppercase;
 }
+@media screen and (max-width: 1279px) {
+  .gallery__title {
+    padding-bottom: 230px;
+  }
+}
+@media screen and (max-width: 767px) {
+  .gallery__title {
+    -webkit-box-pack: center;
+        -ms-flex-pack: center;
+            justify-content: center;
+    padding-bottom: 100px;
+  }
+}
 .gallery__title p {
   position: relative;
   padding: 20px 50px 50px;
+}
+@media screen and (max-width: 767px) {
+  .gallery__title p {
+    padding-bottom: 20px;
+  }
 }
 .gallery__title p:before, .gallery__title p:after {
   content: "";

diff --git a/dest/index.html b/dest/index.html
@@ -43,21 +43,24 @@
     <!-- HEADER :: END-->
     <main class="main p-home">
       <!--include components/common/doctor-->
+      <!--include components/common/meet-->
       <!-- SECTION :: START-->
-      <section class="meet" id="meet" style="background-image:url(&quot;img/img-meet.jpg&quot;)">
+      <section class="gallery" id="gallery">
+        <div class="gallery__bg"><img class="gallery__bg-cover" src="img/img-gallery-bg.jpg" alt="">
+          <div>
+            <div><img src="img/img-gallery-before.jpg" alt=""><img src="img/img-gallery-after.jpg" alt=""></div>
+          </div>
+        </div>
         <div class="c-grid">
-          <div class="meet__wrapper">
-            <div>
-              <p class="meet__label c-label">Internal Medicine, Hospitalist, Las Vegas, NV</p>
-              <h2 class="meet__title c-title">Dr. Yekaterina <br>Khronusova, MD</h2>
-              <p class="meet__desc c-desc">Dr. Khronusova, MD is a practicing Internist in Las Vegas, NV. She completed a residency at the Hospital of Saint Raphael. Dr. Khronusova also specializes as a Hospitalist. Dr. Khronusova accepts multiple insurance plans including Medicare, Medicaid, and First Health (Coventry Health Care). Dr. Khronusova is board certified in Internal Medicine. Dr. Khronusova also practices at HealthCare Partners of NV Inpatient Team in Las Vegas, NV.</p>
-              <div class="meet__btn c-btn__wrapper"><a class="c-btn" href="#">MEET THE DOCTOR</a></div>
-            </div>
+          <div class="gallery__wrapper">
+            <h2 class="gallery__title c-title c-title--white c-title--big">
+              <p>Gallery</p>
+            </h2>
+            <div class="gallery__btn c-btn__wrapper"><a class="c-btn" href="#">ENTER BEFORE & AFTER PHOTO GALLERY</a></div>
           </div>
         </div>
       </section>
       <!-- SECTION :: END-->
-      <!--include components/common/gallery-->
       <!--include components/common/service-->
       <!--include components/common/reviews-->
       <!--include components/common/schedule-->

diff --git a/src/scss/_components/common/gallery.scss b/src/scss/_components/common/gallery.scss
@@ -13,6 +13,10 @@
 
     &-cover {
       @extend %imageResCoverAbs;
+      @include adaptive(767) {
+        opacity: 0.75;
+       object-position: -200px center;
+      }
     }
 
     &:after {
@@ -23,6 +27,12 @@
       width: 64%;
       height: 230px;
       background-color: #ffffff;
+      @include adaptive(1279) {
+        width: 50%;
+      }
+      @include adaptive(1023) {
+        display: none;
+      }
     }
 
     > div {
@@ -32,6 +42,12 @@
       width: 100%;
       max-width: 64%;
       height: 100%;
+      @include adaptive(1279) {
+        max-width: 40%;
+      }
+      @include adaptive(1023) {
+        display: none;
+      }
 
       > div {
         z-index: 2;
@@ -42,6 +58,14 @@
         bottom: 0;
         width: 680px;
         height: 500px;
+        @include adaptive(1439) {
+          width: 580px;
+          height: 400px;
+        }
+        @include adaptive(1279) {
+          left: 20px;
+          width: 100%;
+        }
 
         img {
           position: absolute;
@@ -70,6 +94,14 @@
     position: relative;
     padding-top: 150px;
     padding-bottom: 150px;
+    @include adaptive(1439) {
+      padding-top: 125px;
+      padding-bottom: 125px;
+    }
+    @include adaptive(767) {
+      padding-top: 100px;
+      padding-bottom: 100px;
+    }
   }
 
   &__title {
@@ -78,10 +110,20 @@
     padding-bottom: 330px;
     text-align: right;
     text-transform: uppercase;
+    @include adaptive(1279) {
+      padding-bottom: 230px;
+    }
+    @include adaptive(767) {
+      justify-content: center;
+      padding-bottom: 100px;
+    }
 
     p {
       position: relative;
       padding: 20px 50px 50px;
+      @include adaptive(767) {
+        padding-bottom: 20px;
+      }
 
       &:before,
       &:after {

diff --git a/src/scss/_macros/_title.scss b/src/scss/_macros/_title.scss
@@ -23,7 +23,10 @@
       font-size: 100px;
     }
     @include adaptive(1279) {
-      font-size: 50px;
+      font-size: 80px;
+    }
+    @include adaptive(1023) {
+      font-size: 60px;
     }
     @include adaptive(767) {
       font-size: 35px;
